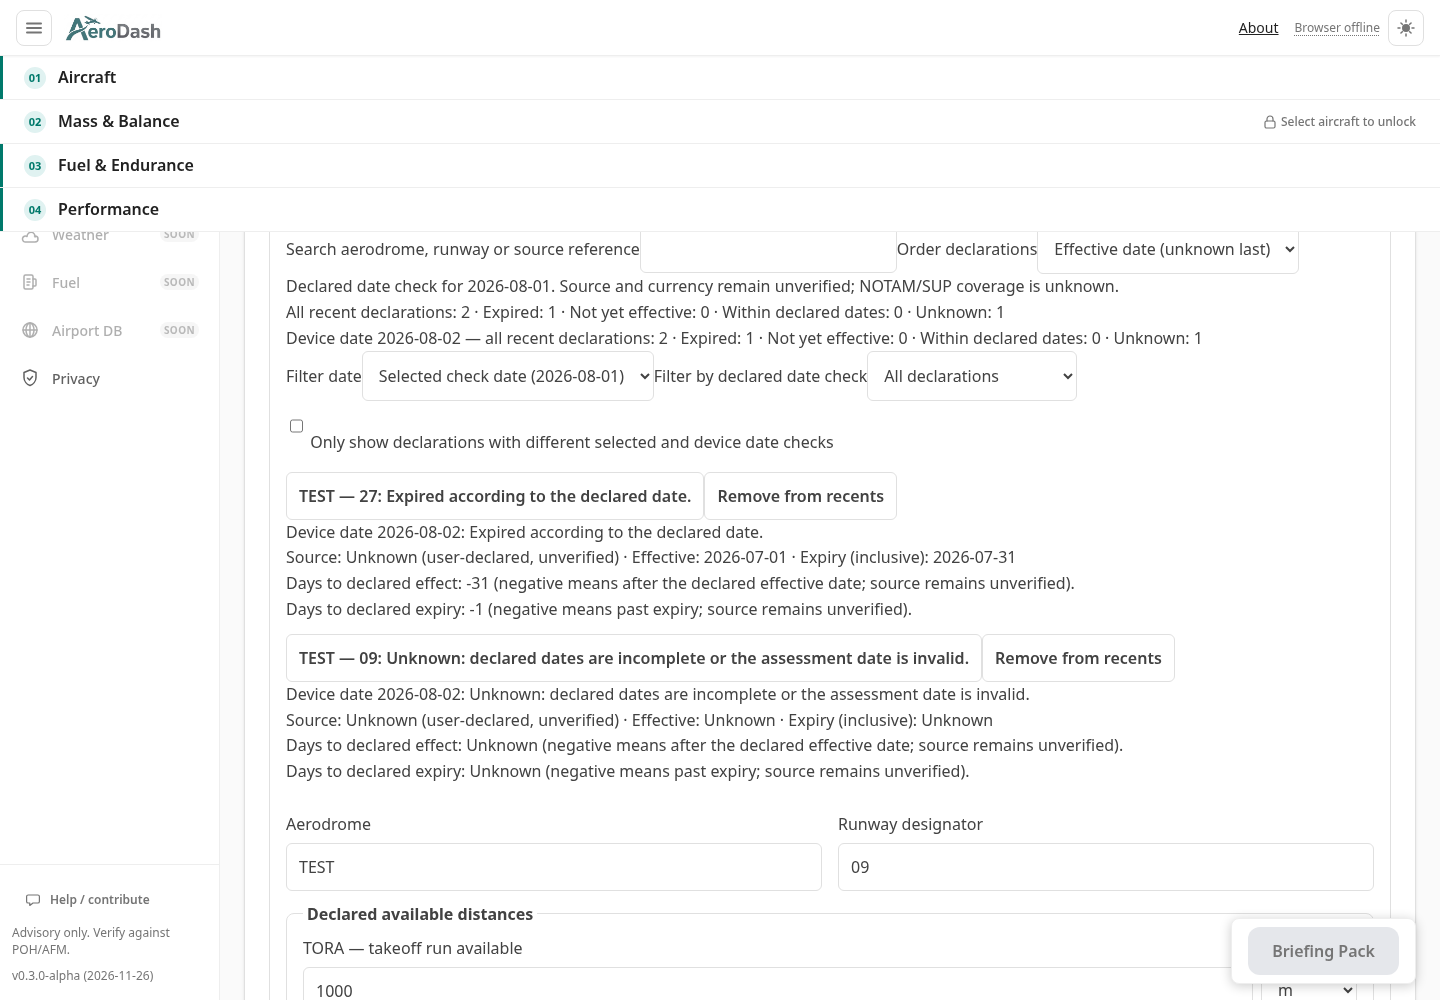
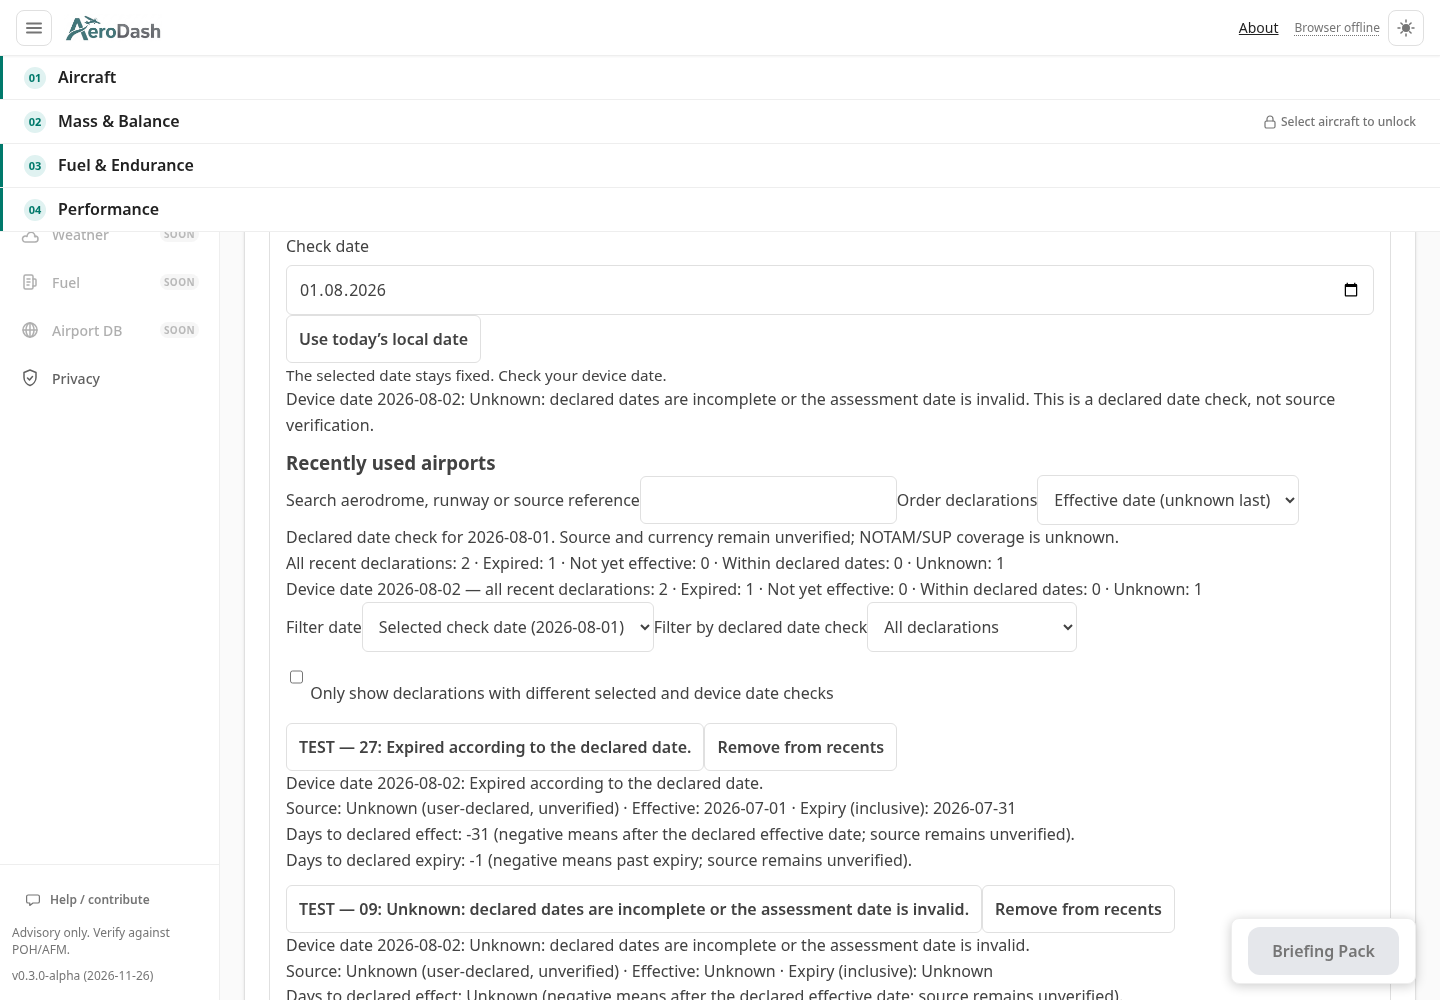
test(ap): show effective date ordering in evidence

diff --git a/frontend/tests/offline-production/recent-date-totals.spec.ts b/frontend/tests/offline-production/recent-date-totals.spec.ts
@@ -28,7 +28,7 @@ test('summarizes recent declared date checks offline', async ({ page, context },
   const recent = runway.getByRole('region', { name: 'Recently used airports' })
   await recent.locator('#recent-order').selectOption('effective')
   await expect(recent.locator('.select-recent').first()).toContainText('27:')
-  await recent.scrollIntoViewIfNeeded()
+  await recent.locator('#recent-order').scrollIntoViewIfNeeded()
   await page.screenshot({ path: info.outputPath('recent-effective-order.png'), animations: 'disabled' })
   await recent.locator('#recent-order').selectOption('expiry')
   await expect(recent.locator('.select-recent').first()).toContainText('27:')
